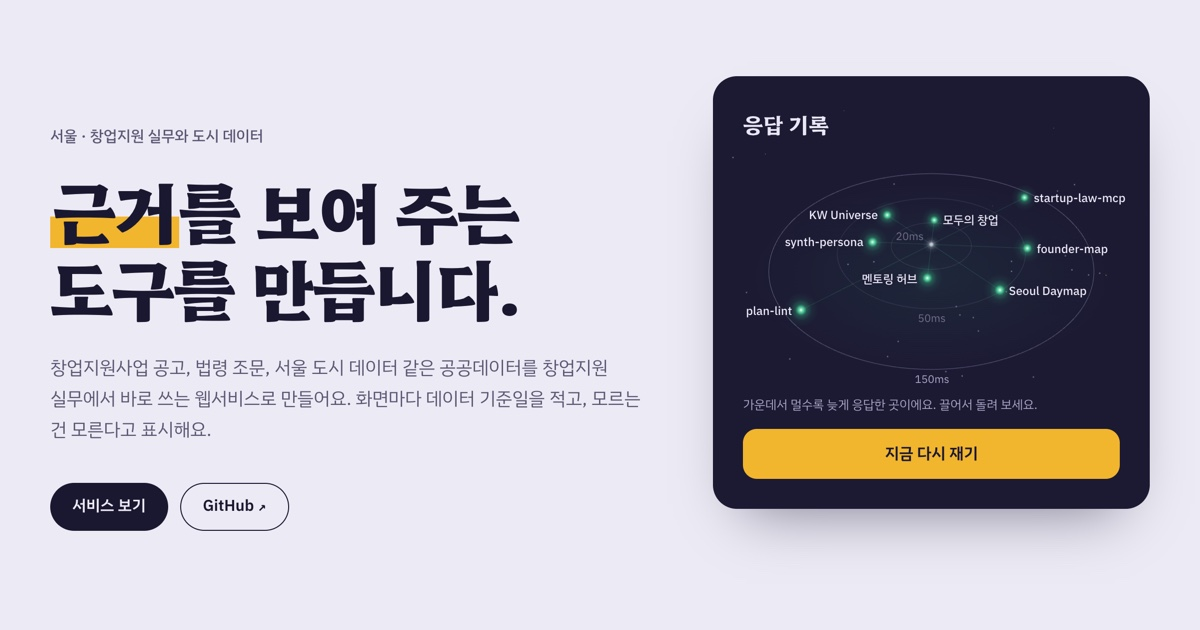
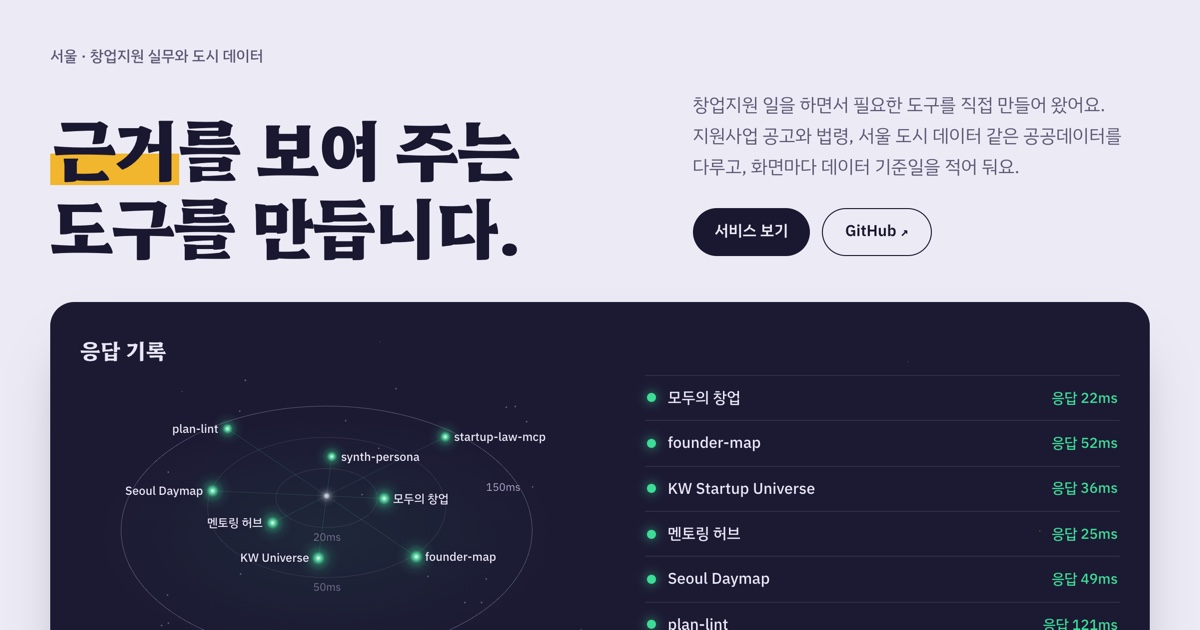
문구 윤문: AI 말투 덜어내기
- 자기 설명·번역투·나열("~부터 ~까지 각자 화면에서")·"~라는 신호예요" 같은 말투를 풀어 씀
- 제목 줄표 제거, 섹션 제목 간결하게(운영 중인 서비스·가져다 쓰는 도구·공모전 출품작·주로 쓰는 기술)
- 재현율·오탐 같은 용어는 풀어 씀. 숫자·사실은 그대로
- 바뀐 제목 글자로 제목 글꼴 다시 자름, 공유 미리보기 새로 찍음

diff --git a/index.html b/index.html
@@ -3,13 +3,13 @@
 <head>
   <meta charset="utf-8">
   <meta name="viewport" content="width=device-width, initial-scale=1">
-  <title>최광범 · Choihello — 근거를 보여 주는 도구</title>
-  <meta name="description" content="창업지원사업 공고, 법령 조문, 서울 도시 데이터를 창업지원 실무에서 바로 쓰는 웹서비스로 만드는 최광범(Choihello)의 포트폴리오. 지금 응답하는 서비스 8곳과 도구, 공모전 출품작을 모았어요.">
+  <title>최광범 포트폴리오 · Choihello</title>
+  <meta name="description" content="창업지원 일을 하며 만든 웹서비스와 도구, 공공데이터 공모전 출품작을 모았어요. 각 서비스의 응답 시간은 페이지에서 직접 다시 잴 수 있어요.">
   <meta name="theme-color" content="#ECEAF4">
   <meta property="og:type" content="website">
   <meta property="og:locale" content="ko_KR">
-  <meta property="og:title" content="최광범 · Choihello — 근거를 보여 주는 도구">
-  <meta property="og:description" content="창업지원사업 공고, 법령 조문, 서울 도시 데이터를 실무에서 바로 쓰는 웹서비스로 만들어요.">
+  <meta property="og:title" content="최광범 포트폴리오 · Choihello">
+  <meta property="og:description" content="창업지원 일을 하며 만든 웹서비스와 도구, 공모전 출품작을 모았어요.">
   <meta property="og:url" content="https://choihello.github.io/">
   <meta property="og:image" content="https://choihello.github.io/assets/og.jpg">
   <meta property="og:image:width" content="1200">
@@ -25,9 +25,9 @@
   <link rel="preload" href="assets/fonts/hahmlet-700.woff2" as="font" type="font/woff2" crossorigin>
   <link rel="modulepreload" href="assets/vendor/three-sky.min.js">
   <!-- styles.css·main.js·sky.js를 고치면 ?v= 뒤 값을 바꿔야 브라우저가 예전 파일을 쓰지 않아요. -->
-  <link rel="stylesheet" href="styles.css?v=20261109-7">
-  <script src="main.js?v=20261109-7" defer></script>
-  <script src="sky.js?v=20261109-7" type="module"></script>
+  <link rel="stylesheet" href="styles.css?v=20261109-8">
+  <script src="main.js?v=20261109-8" defer></script>
+  <script src="sky.js?v=20261109-8" type="module"></script>
 </head>
 <body>
   <a class="skip-link" href="#main">본문으로 건너뛰기</a>
@@ -57,7 +57,7 @@
           <p class="eyebrow">서울 · 창업지원 실무와 도시 데이터</p>
           <h1 class="hero__title" id="hero-title"><mark>근거</mark>를 보여 주는<br>도구를 만듭니다.</h1>
           <div class="hero__aside">
-            <p class="hero__lede">창업지원사업 공고, 법령 조문, 서울 도시 데이터 같은 공공데이터를 창업지원 실무에서 바로 쓰는 웹서비스로 만들어요. 화면마다 데이터 기준일을 적고, 모르는 건 모른다고 표시해요.</p>
+            <p class="hero__lede">창업지원 일을 하면서 필요한 도구를 직접 만들어 왔어요. 지원사업 공고와 법령, 서울 도시 데이터 같은 공공데이터를 다루고, 화면마다 데이터 기준일을 적어 둬요.</p>
             <div class="hero__actions">
               <a class="btn btn--ink" href="#services">서비스 보기</a>
               <a class="btn btn--line" href="https://github.com/Choihello" target="_blank" rel="noopener noreferrer">GitHub<span class="ext" aria-hidden="true">↗</span><span class="sr-only">(새 창)</span></a>
@@ -73,7 +73,7 @@
           <div class="record__main">
             <figure class="sky" id="sky" aria-hidden="true">
               <div class="sky__stage" data-sky-stage></div>
-              <figcaption class="sky__cap">가운데서 멀수록 늦게 응답한 곳이에요. 끌어서 돌려 보세요.</figcaption>
+              <figcaption class="sky__cap">가운데에서 멀수록 응답이 늦었던 곳이에요. 끌어서 돌려 볼 수 있어요.</figcaption>
             </figure>
             <button class="record__btn" type="button" id="measure">지금 다시 재기</button>
             <p class="record__note" id="record-summary" aria-live="polite">이 페이지를 만들 때 8곳 모두 응답했어요. 버튼을 누르면 지금 이 브라우저에서 다시 재요.</p>
@@ -105,7 +105,7 @@
                 <span class="dot" aria-hidden="true"></span><span class="ping__name">startup-law-mcp</span><span class="ping__status js-status" data-state="ok">응답 122ms</span>
               </li>
             </ol>
-            <p class="record__fine">서버가 답을 돌려주면 ‘응답’으로 셉니다. 쉬고 있던 서버는 첫 응답이 몇 초 걸릴 수 있어요.</p>
+            <p class="record__fine">서버가 무엇이든 답하면 응답으로 쳐요. 한동안 쉬던 서버는 첫 응답에 몇 초가 걸리기도 해요.</p>
           </div>
         </aside>
       </div>
@@ -115,9 +115,9 @@
     <section class="section" id="services" aria-labelledby="services-title">
       <div class="wrap">
         <header class="section-head">
-          <h2 class="section-head__title" id="services-title">열어서 바로 쓰는 서비스</h2>
+          <h2 class="section-head__title" id="services-title">운영 중인 서비스</h2>
           <p class="section-head__count">7곳</p>
-          <p class="section-head__desc">설치나 가입 없이 주소만 열면 돼요. ‘멘토링 허브’와 ‘모두의 창업’만 등록된 계정으로 들어가요.</p>
+          <p class="section-head__desc">주소만 열면 가입 없이 써 볼 수 있어요. 모두의 창업과 멘토링 허브는 등록된 계정으로만 들어가요.</p>
         </header>
 
         <article class="card card--feature" aria-labelledby="p-modu">
@@ -128,13 +128,13 @@
           <div class="card__body">
             <p class="card__kicker">멘토링 운영 플랫폼 · 광운대학교 ‘모두의 창업’</p>
             <h3 class="card__title" id="p-modu">모두의 창업</h3>
-            <p class="card__text">멘토링 허브를 바탕으로 ‘모두의 창업’ 프로그램에 맞춰 새로 만든 운영 플랫폼이에요. 참가 신청부터 매칭, 예약, 일지, 실적까지 멘토·기업·담당자가 각자 화면에서 처리해요.</p>
+            <p class="card__text">‘모두의 창업’ 프로그램 운영에 쓰는 플랫폼이에요. 기업은 참가 신청과 멘토링 예약을 하고, 멘토는 일지를 쓰고, 담당자는 매칭과 실적을 관리해요.</p>
             <ul class="facts">
               <li>사용성 테스트 11차 반영</li>
               <li>교육 영상 10편 자동 녹화</li>
               <li>멘토용·기업용 사용설명서</li>
             </ul>
-            <p class="card__note">멘토링 허브의 예약·일지·실적 구조를 가져와 프로그램 참가 신청부터 받도록 넓혔어요. 일지 서식은 사용성 테스트에서 나온 불편을 칸 단위로 고쳐, 제출하면 첫 오류 칸으로 바로 데려가고 고친 칸의 오류 문구는 그 자리에서 사라지게 했어요.</p>
+            <p class="card__note">멘토링 허브를 바탕으로 만들고 참가 신청 단계를 더했어요. 일지 서식은 사용성 테스트에서 나온 불편을 하나씩 고쳐서, 지금은 제출할 때 틀린 칸으로 곧장 이동하고 칸을 고치면 오류 문구가 바로 사라져요.</p>
             <p class="stack">JavaScript · Supabase (PostgreSQL · Auth · Realtime · Storage) · Vercel</p>
             <div class="card__foot">
               <div class="links">
@@ -154,13 +154,13 @@
           <div class="card__body">
             <p class="card__kicker">창업지원사업 지도</p>
             <h3 class="card__title" id="p-founder-map">founder-map</h3>
-            <p class="card__text">지역·창업 단계·지원 분야를 고르면 지금 신청할 수 있거나 곧 열릴 창업지원사업만 지도에 남아요. 지원기관과 창업공간이 어디 있는지도 같은 지도에서 봐요.</p>
+            <p class="card__text">지역, 창업 단계, 지원 분야를 고르면 지금 신청할 수 있거나 곧 열릴 지원사업만 지도에 남아요. 지원기관과 창업공간 위치도 같은 지도에 표시돼요.</p>
             <ul class="facts">
               <li>11월 7일 수집 공고 258건</li>
               <li>K-Startup·기업마당 매일 수집</li>
               <li>지원기관 355곳 · 창업공간 350곳</li>
             </ul>
-            <p class="card__note">공고마다 데이터 기준일을 붙이고, 공개되지 않은 정보는 AI로 추측해 채우지 않아요. 기관 위치(핀)와 지원 대상 지역(면)은 다른 모양으로 그려 헷갈리지 않게 했어요.</p>
+            <p class="card__note">공고마다 데이터 기준일을 붙이고, 공개되지 않은 정보는 AI로 추측해 넣지 않아요. 기관 위치는 핀으로, 지원 대상 지역은 색칠한 면으로 구분해요.</p>
             <p class="stack">Next.js 16 · TypeScript · MapLibre · Python 수집기</p>
             <div class="card__foot">
               <div class="links">
@@ -180,13 +180,13 @@
           <div class="card__body">
             <p class="card__kicker">광운대 창업 인프라 3D 지도</p>
             <h3 class="card__title" id="p-kw">KW Startup Universe</h3>
-            <p class="card__text">광운대학교와 이어진 창업지원 센터 7곳을 작은 3D 행성 위에서 둘러봐요. 서울 시간에 맞춰 밤이 오고, 실제 날씨에 따라 비나 눈이 내려요. 모집 중인 센터에는 마감 D-day가 붙어요.</p>
+            <p class="card__text">광운대학교와 연계된 창업지원 센터 7곳을 작은 3D 행성 위에 올렸어요. 서울이 밤이면 행성에도 밤이 오고, 실제로 비나 눈이 오면 행성에도 내려요. 모집 중인 센터에는 마감 D-day가 붙어요.</p>
             <ul class="facts">
               <li>센터 7곳 · 공고 매일 자동 수집</li>
               <li>센터 시설 최대 3곳 비교</li>
               <li>한국어·영어</li>
             </ul>
-            <p class="card__note">공고는 GitHub Actions가 매일 아침 일곱 센터 홈페이지에서 모아 오고, 읽지 못한 센터가 생기면 GitHub 이슈로 알려요. 센터들이 도면을 공개하지 않아 층별 공간은 공개 자료로 그린 개략도라고 화면에 밝히고, 원문에서 다시 확인하지 못한 수치는 띄우지 않아요.</p>
+            <p class="card__note">공고는 매일 아침 일곱 센터 홈페이지에서 자동으로 모으고, 못 읽은 곳이 생기면 GitHub 이슈로 알림이 와요. 층별 공간은 도면이 공개되지 않아 공개 자료를 보고 그린 개략도라서 화면에도 그렇게 적었어요. 원문에서 다시 확인하지 못한 수치는 넣지 않았어요.</p>
             <p class="stack">Three.js r170 · JavaScript · 셀 셰이딩 · GitHub Actions · Vercel</p>
             <div class="card__foot">
               <div class="links">
@@ -206,13 +206,13 @@
           <div class="card__body">
             <p class="card__kicker">멘토링 관리 시스템 · 광운대학교 NCI창업패키지사업단</p>
             <h3 class="card__title" id="p-mh">멘토링 허브</h3>
-            <p class="card__text">사업단 창업 멘토링의 일정 조율, 일지 수합, 실적 집계를 엑셀·메일·메신저에서 웹앱 하나로 옮겼어요. 멘토가 시간을 열면 멘티가 직접 예약하고, 일지와 실적은 담당자 화면에 자동으로 모여요.</p>
+            <p class="card__text">엑셀과 메일, 메신저로 나눠 하던 멘토링 일정 조율과 일지 수합, 실적 집계를 웹앱 하나로 옮겼어요. 멘토가 가능한 시간을 올리면 멘티가 직접 예약하고, 일지와 실적은 담당자 화면에 저절로 모여요.</p>
             <ul class="facts">
               <li>같은 시간 중복 예약 차단</li>
               <li>멘토·멘티·관리자 세 역할 · 역할별 사용설명서</li>
               <li>빌드 없는 HTML 한 파일 + Supabase</li>
             </ul>
-            <p class="card__note">담당자로 일하며 직접 겪던 수작업을 없애려고 만든 시스템이에요. 이걸 바탕으로 ‘모두의 창업’ 운영 플랫폼을 따로 만들었고, 멘토링 허브는 사업단 운영용으로 계속 돌아가요.</p>
+            <p class="card__note">담당자로 일하면서 매번 손으로 하던 일을 줄이려고 만들었어요. 나중에 이걸 바탕으로 ‘모두의 창업’ 플랫폼을 따로 만들었고, 멘토링 허브는 지금도 사업단에서 쓰고 있어요.</p>
             <p class="stack">JavaScript · Supabase (PostgreSQL · Auth · Realtime · 행 단위 권한) · GitHub Pages</p>
             <div class="card__foot">
               <div class="links">
@@ -232,13 +232,13 @@
           <div class="card__body">
             <p class="card__kicker">서울 121곳 실시간 혼잡도</p>
             <h3 class="card__title" id="p-daymap">Seoul Daymap</h3>
-            <p class="card__text">서울 121개 구역의 지금 혼잡도와 12시간 예보, 주변 볼거리를 한 화면에서 봐요. 밤에는 사람이 모인 곳마다 별이 뜨고, 그 밤하늘이 매일 ‘별자리 일지’로 쌓여요.</p>
+            <p class="card__text">서울 121개 구역의 현재 혼잡도와 12시간 예보, 주변 볼거리를 지도에서 함께 봐요. 밤이 되면 사람이 몰린 곳에 별이 뜨고, 그날 밤하늘은 ‘별자리 일지’로 남아요.</p>
             <ul class="facts">
               <li>20분마다 수집 · 하루 72회</li>
               <li>한국어·영어·일본어·중국어</li>
               <li>파생 데이터 공개</li>
             </ul>
-            <p class="card__note">GitHub 예약 실행이 132번 중 24번만 돈다는 걸 재 보고, 수집기를 Cloudflare Worker가 깨우게 바꿨어요. 원본 수집 데이터는 비공개로 두고, 공개해도 되는 파생 데이터만 daymap-data로 내보내요.</p>
+            <p class="card__note">GitHub 예약 실행이 132번 중 24번만 돈다는 걸 확인하고, 수집기는 Cloudflare Worker가 깨우도록 바꿨어요. 원본 수집 데이터는 공개하지 않고, 가공한 데이터만 daymap-data 저장소로 내보내요.</p>
             <p class="stack">Next.js · Leaflet · pixi.js · Python · GitHub Actions · Cloudflare Workers</p>
             <div class="card__foot">
               <div class="links">
@@ -260,7 +260,7 @@
             <div class="card__body">
               <p class="card__kicker">사업계획서 사전 진단</p>
               <h3 class="card__title" id="p-plan-lint">plan-lint</h3>
-              <p class="card__text">정부 창업지원사업 사업계획서를 내기 전에 올리면, 빠진 항목·분량 위반·수치 모순과 근거 없는 주장을 원문 인용과 함께 짚어 줘요. 점수나 합격 가능성은 매기지 않아요.</p>
+              <p class="card__text">정부 창업지원사업 사업계획서를 내기 전에 올리면 빠진 항목, 분량 위반, 앞뒤가 안 맞는 수치, 근거 없는 주장을 해당 문장과 함께 알려 줘요. 점수나 합격 가능성은 매기지 않아요.</p>
               <ul class="facts">
                 <li>.hwpx · .pdf · .docx</li>
                 <li>올린 문서는 저장 안 함</li>
@@ -284,9 +284,9 @@
               <span class="chip js-status" data-for="synth-persona" data-state="ok">응답 28ms</span>
             </figure>
             <div class="card__body">
-              <p class="card__kicker">합성 패널로 시장 가설 미리 보기</p>
+              <p class="card__kicker">가상 응답자로 시장 가설 미리 보기</p>
               <h3 class="card__title" id="p-synth">synth-persona</h3>
-              <p class="card__text">통계청 인구 분포로 만든 가상 응답자 60명에게 질문을 던져, 진짜 설문 전에 의견이 갈리는 곳을 찾아요. 의견이 갈린 곳은 진짜 조사 예산을 쓸 곳이라는 신호예요.</p>
+              <p class="card__text">통계청 인구 분포에 맞춘 가상 응답자 60명에게 먼저 물어보고, 의견이 갈리는 질문을 찾아요. 실제 설문 예산은 그 질문에 쓰면 돼요.</p>
               <ul class="facts">
                 <li>KOSIS 2024 분포 · IPF</li>
                 <li>Wilson 90% 신뢰구간</li>
@@ -310,9 +310,9 @@
     <section class="section" id="tools" aria-labelledby="tools-title">
       <div class="wrap">
         <header class="section-head">
-          <h2 class="section-head__title" id="tools-title">연결하거나 설치해서 쓰는 도구</h2>
+          <h2 class="section-head__title" id="tools-title">가져다 쓰는 도구</h2>
           <p class="section-head__count">2개</p>
-          <p class="section-head__desc">AI 비서에 주소를 등록하거나, 내 컴퓨터·기관 서버에 설치해서 써요.</p>
+          <p class="section-head__desc">AI 비서에 주소를 등록하거나, 컴퓨터나 기관 서버에 설치해서 써요.</p>
         </header>
 
         <div class="grid">
@@ -330,7 +330,7 @@
             <div class="card__body">
               <p class="card__kicker">창업 법령 MCP 서버</p>
               <h3 class="card__title" id="p-law">startup-law-mcp</h3>
-              <p class="card__text">Claude 같은 AI 비서에 주소 하나를 등록하면, 창업 관련 법령 조문과 K-Startup 공고를 원문 그대로 근거로 답해요. AI가 지어낸 조문 인용은 법령 색인과 대조해서 잡아내요.</p>
+              <p class="card__text">Claude 같은 AI 비서에 주소 하나만 등록하면, 창업 관련 법령 조문과 K-Startup 공고 원문을 근거로 붙여 답해요. AI가 없는 조문을 인용하면 법령 색인과 대조해 걸러내요.</p>
               <ul class="facts">
                 <li>법령 50개 문서 · 조문 8,191개</li>
                 <li>원격 도구 13개</li>
@@ -361,7 +361,7 @@
             <div class="card__body">
               <p class="card__kicker">근거를 남기는 지원사업 매칭</p>
               <h3 class="card__title" id="p-gc">GrantCompass Korea</h3>
-              <p class="card__text">회사 정보를 넣으면 맞는 공공 지원사업을 찾고, 그렇게 판단한 근거가 공고문 어느 쪽 어느 부분인지까지 남겨요. 기관 담당자가 검토하고 상담 기록을 남기는 화면이 따로 있어요.</p>
+              <p class="card__text">회사 정보를 넣으면 맞는 공공 지원사업을 찾아 주고, 그렇게 판단한 근거가 공고문 몇 쪽 어느 절에 있는지 남겨요. 기관 담당자가 결과를 검토하고 상담 기록을 남기는 화면도 따로 있어요.</p>
               <ul class="facts">
                 <li>K-Startup·기업마당 동기화</li>
                 <li>근거 위치: 문서 해시·쪽·절</li>
@@ -384,9 +384,9 @@
     <section class="section" id="contests" aria-labelledby="contests-title">
       <div class="wrap">
         <header class="section-head">
-          <h2 class="section-head__title" id="contests-title">공모전에 낸 것</h2>
+          <h2 class="section-head__title" id="contests-title">공모전 출품작</h2>
           <p class="section-head__count">4편</p>
-          <p class="section-head__desc">공공데이터 공모전 세 편과 AI 영상 한 편이에요. 심사 중인 작품은 결과가 나오면 고쳐 적어요.</p>
+          <p class="section-head__desc">공공데이터 공모전 세 편과 AI 영상 한 편이에요. 심사 중인 작품은 결과가 나오면 고쳐 적을게요.</p>
         </header>
 
         <article class="card card--feature" aria-labelledby="p-wave">
@@ -396,13 +396,13 @@
           <div class="card__body">
             <p class="card__kicker">서울교통공사 지하철 혼잡도·안전시설 데이터 활용 공모전 · 2차 심사 진출</p>
             <h3 class="card__title" id="p-wave">하차 파도 지도</h3>
-            <p class="card__text">열차가 서면 수백 명이 한꺼번에 계단 앞으로 몰려요. 이걸 ‘하차 파도’라고 부르고, 칸별 혼잡도·안전시설·역사 도면을 합쳐 도착 전에 어느 계단과 에스컬레이터가 붐빌지 시민과 역 직원에게 알려요.</p>
+            <p class="card__text">열차가 서면 수백 명이 한꺼번에 계단으로 몰려요. 이 ‘하차 파도’를 칸별 혼잡도와 안전시설, 역사 도면으로 미리 계산해서, 열차가 들어오기 전에 어느 계단과 에스컬레이터가 붐빌지 시민과 역 직원에게 알려요.</p>
             <ul class="facts">
               <li>4호선 28개 역 · 공개 데이터 61일치</li>
               <li>도착 6~7분 전, 하차 상위 10% 열차의 93% 포착</li>
               <li>열차당 오차 평균 127명 → 69명</li>
             </ul>
-            <p class="card__note">같은 열차가 평균 4.9일마다 앞뒤를 바꿔 달려서 칸 번호가 반대쪽을 가리키는 함정이 있어요. 운행마다 방향을 판정해 정차 세 번 안에 95%를 바로잡아요. 대신 경보 열 번 중 네 번은 헛경보예요. 하차 인원은 센서 추정값이고, 센서를 단 열차는 아직 피크 운행의 33~44%예요.</p>
+            <p class="card__note">같은 열차가 평균 4.9일마다 앞뒤를 바꿔 달려서, 칸 번호가 반대쪽을 가리킬 때가 있어요. 그래서 운행마다 방향을 판정해 정차 세 번 안에 95%를 바로잡아요. 다만 경보 열 번 중 네 번은 헛경보예요. 하차 인원은 센서로 추정한 값이고, 센서가 달린 열차는 아직 피크 시간대 운행의 33~44%예요.</p>
             <p class="stack">서울교통공사 개방 데이터 · 3D 승강장 시연 · 열차 하중 기반 예측</p>
             <div class="card__foot">
               <div class="links">
@@ -417,7 +417,7 @@
           <div class="card__body">
             <p class="card__kicker">2026 제주 관광 데이터 활용사례 공모전 · 데이터 분석</p>
             <h3 class="card__title" id="p-jeju">좌석이냐 가격이냐</h3>
-            <p class="card__text">2026년 제주를 찾는 내국인 관광객이 줄어든 이유가 항공 좌석 부족인지 가격인지, 제주관광빅데이터와 항공 통계로 갈랐어요.</p>
+            <p class="card__text">2026년 제주 내국인 관광객이 줄어든 게 항공 좌석이 모자라서인지 가격 때문인지, 제주관광빅데이터와 항공 통계로 따져 봤어요.</p>
             <dl class="findings">
               <div class="finding">
                 <dt>평소엔 좌석이 병목이 아니에요</dt>
@@ -455,7 +455,7 @@
             <div class="card__body">
               <p class="card__kicker">외교 공공데이터·AI 활용 경진대회 · 제품·서비스 부문</p>
               <h3 class="card__title" id="p-oda">ODA Problem-Solution Atlas</h3>
-              <p class="card__text">외교부·KOICA 공공데이터에서 나라·분야별 개발협력 문제 신호를 뽑아, 한국 스타트업이 실증(PoC)을 검토할 만한 문제와 이어 줘요. 어느 나라로 가라고 추천하지 않고, 근거와 한계를 카드마다 함께 보여 줘요.</p>
+              <p class="card__text">외교부와 KOICA 공공데이터에서 나라별·분야별 개발협력 문제를 뽑아, 한국 스타트업이 실증(PoC)해 볼 만한 것과 연결해요. 특정 나라를 추천하지는 않고, 카드마다 근거와 한계를 같이 적었어요.</p>
               <ul class="facts">
                 <li>외교부·KOICA 데이터 4종 + 국내 보조 데이터</li>
                 <li>점수를 합치지 않고 다섯 갈래로 따로 표시</li>
@@ -502,34 +502,34 @@
       <div class="wrap">
         <header class="section-head">
           <h2 class="section-head__title" id="how-title">일하는 방식</h2>
-          <p class="section-head__desc">위 프로젝트들에 공통으로 들어 있는 원칙이에요. 원칙마다 실제로 한 일을 붙였어요.</p>
+          <p class="section-head__desc">프로젝트마다 되풀이해 온 습관이에요.</p>
         </header>
 
         <div class="principles">
           <div class="principle">
             <h3 class="principle__title">재 보고 나서 말해요</h3>
-            <p class="principle__text">GitHub 예약 실행이 44시간 동안 132번 중 24번만 돈 걸 재고 나서, 서울 데이터 수집기를 바깥 크론이 깨우는 방식으로 바꿨어요.</p>
+            <p class="principle__text">GitHub 예약 실행을 44시간 동안 재 보니 132번 중 24번만 돌았어요. 그래서 서울 데이터 수집기는 바깥 크론이 깨우도록 바꿨어요.</p>
             <p class="principle__src">Seoul Daymap</p>
           </div>
           <div class="principle">
             <h3 class="principle__title">AI가 지어낸 근거를 걸러요</h3>
-            <p class="principle__text">AI가 인용한 조문이 실제로 있는지 법령 색인과 대조하고, 진단기는 결함을 심은 문서로 검사 항목마다 재현율과 오탐을 재요.</p>
+            <p class="principle__text">AI가 인용한 조문은 법령 색인과 대조해 실제로 있는지 확인해요. 사업계획서 진단기는 일부러 결함을 넣은 문서로 시험해서, 검사 항목마다 얼마나 잡고 얼마나 잘못 잡는지 재요.</p>
             <p class="principle__src">startup-law-mcp · plan-lint</p>
           </div>
           <div class="principle">
-            <h3 class="principle__title">모르는 건 모른다고 표시해요</h3>
-            <p class="principle__text">공개 필드가 없는 정보는 AI로 채우지 않고 화면마다 데이터 기준일을 적어요. 표본이 적은 집단은 결론 대신 ‘판단 보류’로 남겨요.</p>
+            <h3 class="principle__title">모르는 건 비워 둬요</h3>
+            <p class="principle__text">공개 자료에 없는 정보는 AI로 채우지 않고, 화면마다 데이터 기준일을 적어요. 표본이 적은 집단은 결론을 내지 않고 ‘판단 보류’로 둬요.</p>
             <p class="principle__src">founder-map · synth-persona</p>
           </div>
           <div class="principle">
             <h3 class="principle__title">비용 상한부터 정해요</h3>
-            <p class="principle__text">AI 검사는 한 건에 약 18원, 하루 50건까지로 묶었어요. 수집기는 과금 단위인 1분 안에 끝나도록 실행 시간을 2.3분에서 30초로 줄였어요.</p>
+            <p class="principle__text">AI 검사는 한 건에 약 18원, 하루 50건으로 상한을 걸었어요. 수집기는 요금이 1분 단위로 붙어서 실행 시간을 2.3분에서 30초로 줄였어요.</p>
             <p class="principle__src">plan-lint · Seoul Daymap</p>
           </div>
         </div>
 
         <div class="tools-used">
-          <h3 class="tools-used__title">주로 쓰는 것</h3>
+          <h3 class="tools-used__title">주로 쓰는 기술</h3>
           <dl class="kit">
             <div class="kit__row"><dt>화면</dt><dd>TypeScript · JavaScript · Next.js · Three.js · MapLibre · Leaflet · pixi.js</dd></div>
             <div class="kit__row"><dt>서버·데이터</dt><dd>Python · FastAPI · Supabase(PostgreSQL·RLS) · SQLite · pandas · statsmodels</dd></div>
@@ -545,7 +545,7 @@
     <section class="section section--contact" id="contact" aria-labelledby="contact-title">
       <div class="wrap contact">
         <h2 class="contact__title" id="contact-title">같이 만들 일이 있다면</h2>
-        <p class="contact__text">창업지원 실무를 도구로 바꾸는 일, 공공데이터로 서비스를 만드는 일이라면 편하게 연락 주세요.</p>
+        <p class="contact__text">창업지원 업무에 쓸 도구나 공공데이터 서비스 이야기라면 Threads로 메시지 주세요.</p>
         <ul class="contact__links">
           <li><a class="btn btn--ink" href="https://www.threads.net/@choihellolab" target="_blank" rel="noopener noreferrer">Threads @choihellolab<span class="ext" aria-hidden="true">↗</span><span class="sr-only">(새 창)</span></a></li>
           <li><a class="btn btn--line" href="https://github.com/Choihello" target="_blank" rel="noopener noreferrer">GitHub @Choihello<span class="ext" aria-hidden="true">↗</span><span class="sr-only">(새 창)</span></a></li>
@@ -557,7 +557,7 @@
   <footer class="site-footer">
     <div class="wrap site-footer__inner">
       <p>© 2026 최광범 · Choihello</p>
-      <p>응답 기록과 숫자는 2026년 11월 8일에 확인한 값이에요.</p>
+      <p>응답 시간과 숫자는 2026년 11월 8~9일에 확인한 값이에요.</p>
     </div>
   </footer>
 </body>

diff --git a/main.js b/main.js
@@ -116,7 +116,7 @@ function initRecord() {
         : `방금 이 브라우저에서 쟀어요. ${rows.length}곳 중 ${okCount}곳이 응답했어요. 응답 없는 곳은 잠시 뒤 다시 재 보세요.`;
     if (woke.length) {
       const list = woke.map((w) => `${nobr(w.name)} 첫 응답 ${w.first == null ? "없음" : formatMs(w.first)}`).join(", ");
-      text += ` 잠들어 있던 서버가 있어서 한 번 더 쟀어요(${list}). 목록의 시간은 깨어난 뒤 잰 값이에요.`;
+      text += ` 잠들어 있던 서버는 깨운 뒤 한 번 더 쟀어요(${list}). 목록에는 두 번째 값을 적었어요.`;
     }
     summary.innerHTML = text;
     button.disabled = false;
@@ -247,11 +247,11 @@ async function initHistory() {
   if (!button || !button.disabled) summary.innerHTML = historySummary(runs, stats);
   if (fine) {
     const last = runs.at(-1);
-    const scheduled = runs.some((run) => run.src === "gha") ? "GitHub에서 하루에 한 번 재도록 예약해 두었고, " : "";
+    const scheduled = runs.some((run) => run.src === "gha") ? "GitHub이 하루 한 번 재고, " : "";
     fine.innerHTML =
-      `<span class="record__key">${keyHTML("ok", "응답")} ${keyHTML("wake", "잠들어 있다 깨어나며 응답")} ${keyHTML("fail", "응답 없음")}</span>` +
-      `막대 하나가 한 번 잰 기록이고, 오른쪽이 최근이에요. ${scheduled}마지막으로 잰 건 ${agoLabel(last.t)}이에요. ` +
-      `서버가 답을 돌려주면 <span class="nobr">‘응답’으로</span> 세는데, 쌓아 둔 기록에서는 5xx 오류는 응답 없음으로 셉니다.`;
+      `<span class="record__key">${keyHTML("ok", "응답")} ${keyHTML("wake", "깨어나며 응답")} ${keyHTML("fail", "응답 없음")}</span>` +
+      `막대 하나가 한 번 잰 기록이에요(오른쪽이 최근). ${scheduled}마지막으로 잰 건 ${agoLabel(last.t)}이에요. ` +
+      `서버가 무엇이든 답하면 응답으로 치지만, 이 기록에서는 5xx 오류를 응답 없음으로 봐요.`;
   }
 }
 
